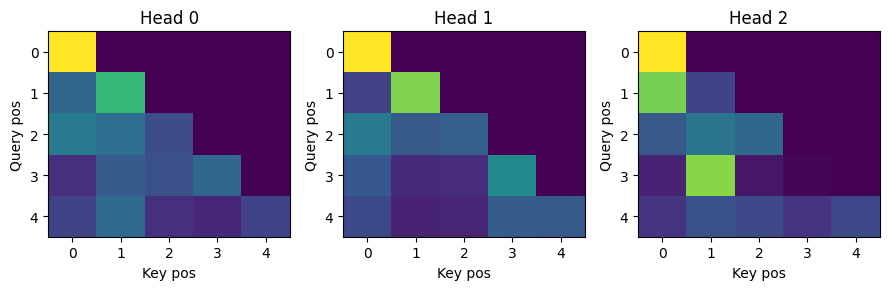
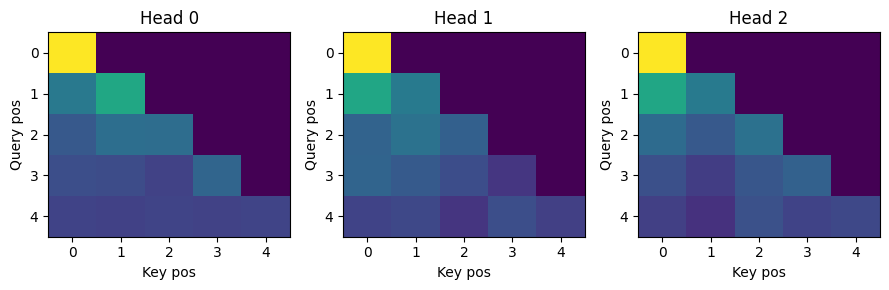
tuto study part1

diff --git a/part_1/multi_head.py b/part_1/multi_head.py
@@ -12,7 +12,7 @@ class MultiHeadSelfAttention(nn.Module):
       qkv:    (B, T, 3*d_model)
       view→   (B, T, 3, n_head, d_head)   where d_head = d_model // n_head
       split→  q,k,v each (B, T, n_head, d_head)
-      swap→   (B, n_head, T, d_head)
+      swap→   (B, n_head, T, d_head)    # transpose
       scores: (B, n_head, T, T) = q @ k^T / sqrt(d_head)
       weights:(B, n_head, T, T) = softmax(scores)
       ctx:    (B, n_head, T, d_head) = weights @ v

diff --git a/part_1/demo_mha_shapes.py b/part_1/demo_mha_shapes.py
@@ -19,7 +19,7 @@ if __name__ == "__main__":
     # Reset file
     os.makedirs(os.path.dirname(OUT_TXT), exist_ok=True)
     open(OUT_TXT, 'w').close()
-
+    # Batch size, sequence length, embedding size(dimensions), number of heads(여러 특징 추출)
     B, T, d_model, n_head = 1, 5, 12, 3
     d_head = d_model // n_head
     x = torch.randn(B, T, d_model)
